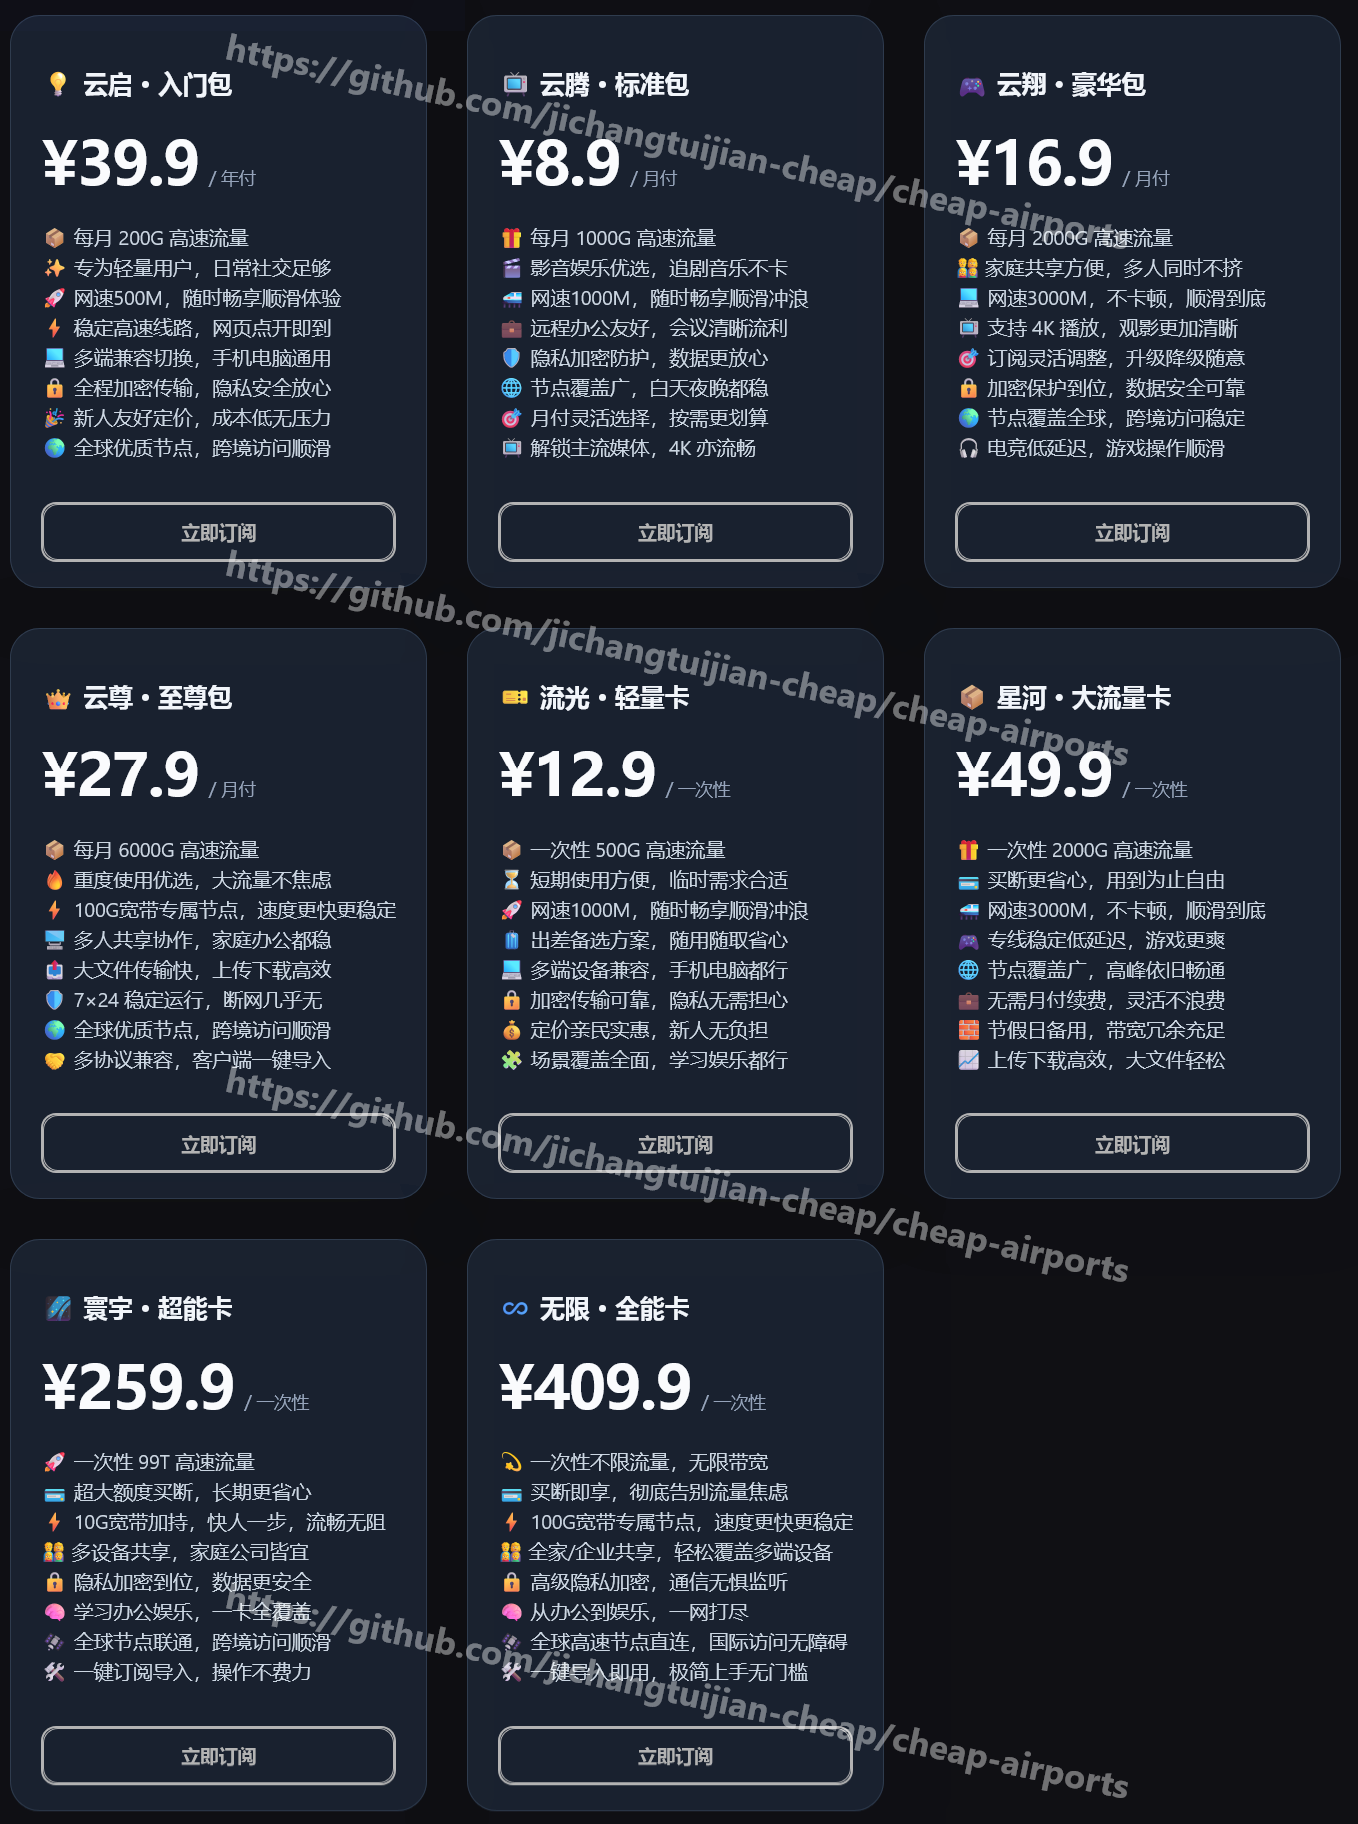
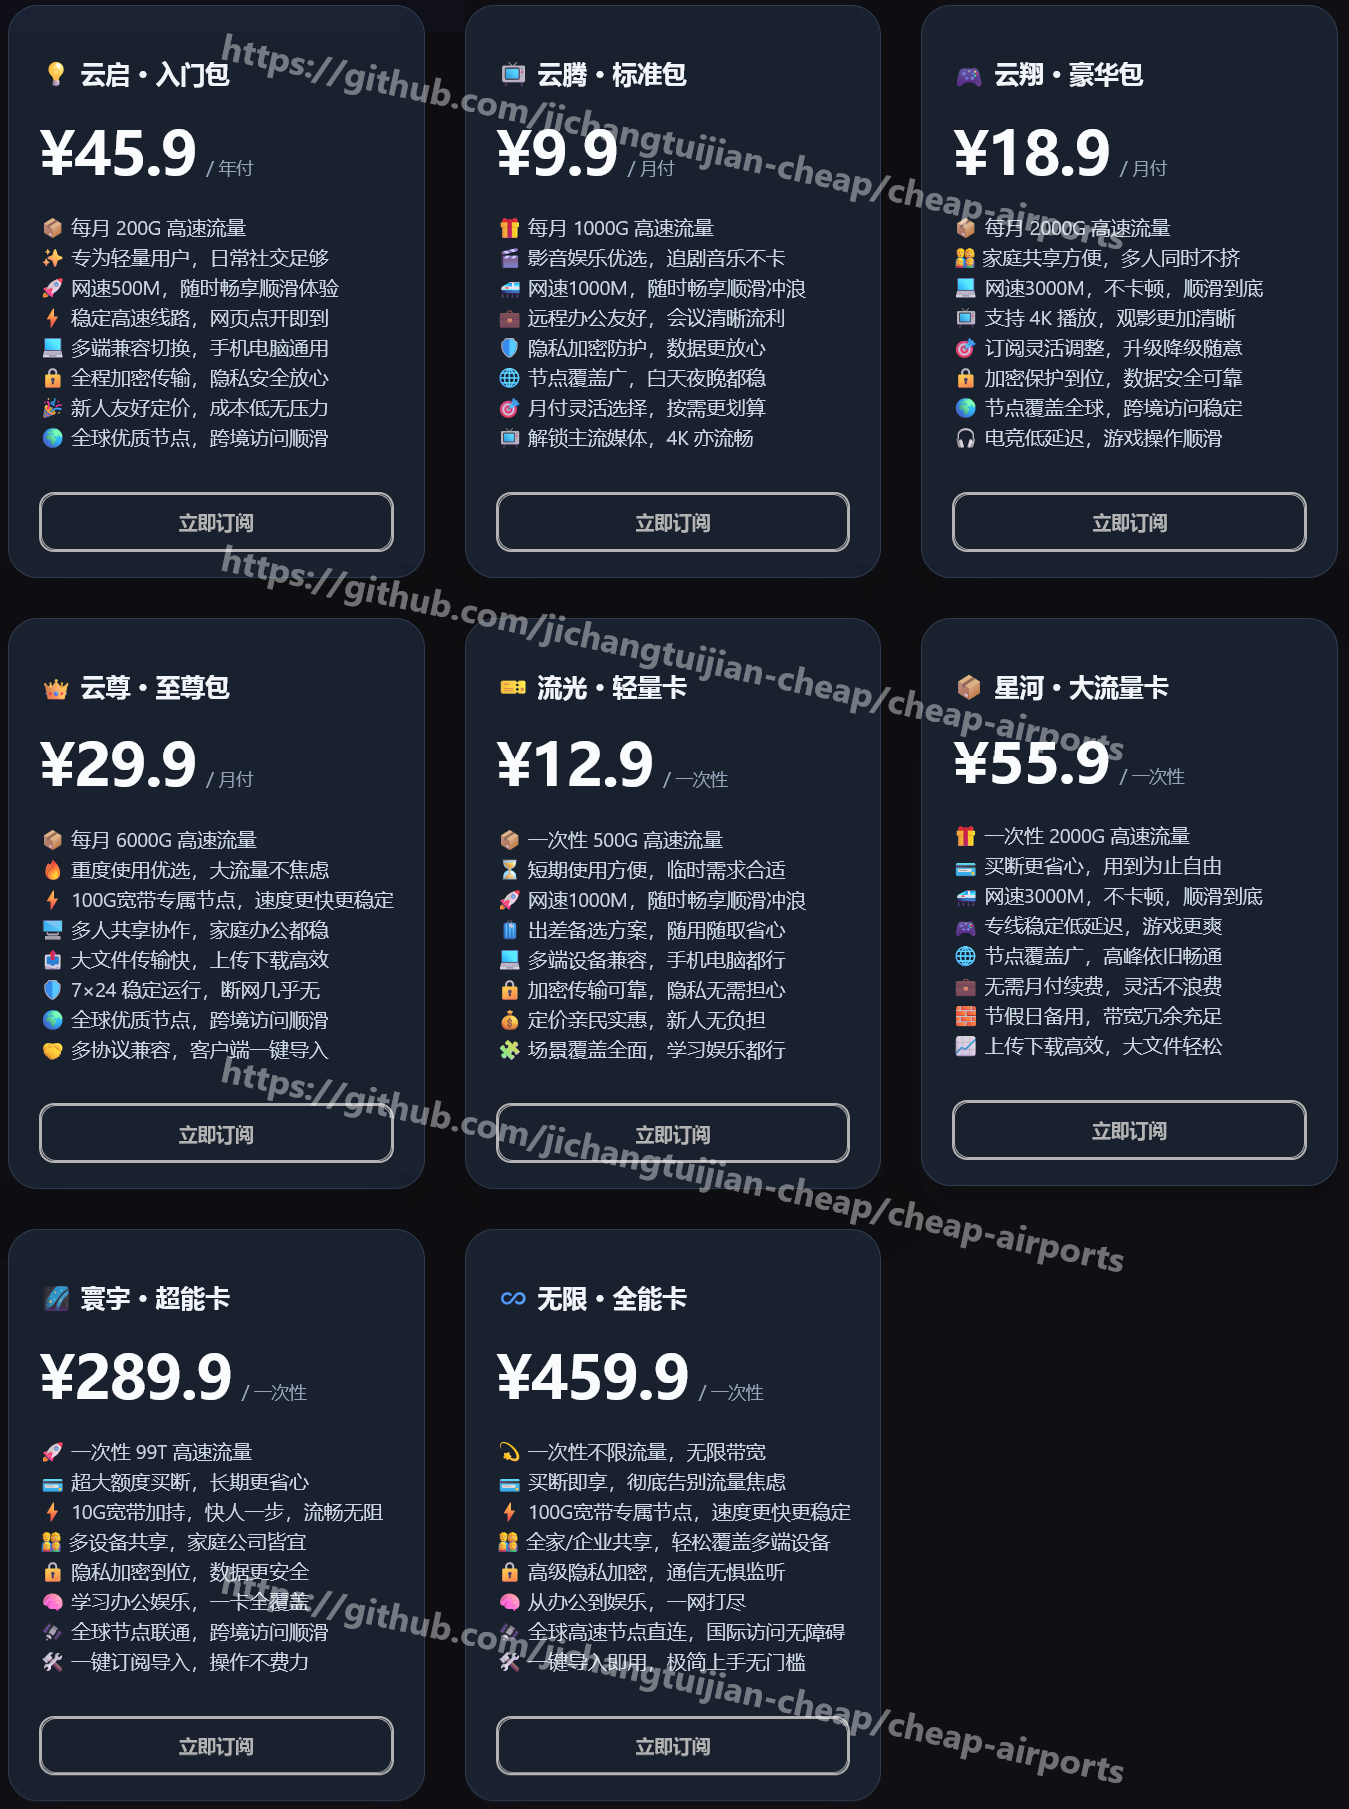
update

diff --git a/README.md b/README.md
@@ -10,7 +10,7 @@
 
 | 序号 | 机场名（点击跳转详情） | 官网 | 最低价套餐 |
 | -------- | -------- | -------- | -------- |
-| 1  | [悦通](#悦通) | [官网](https://sink.cheapairports.dpdns.org/648txr) | 40元/年,200G/月（平均3.3元/月）送Emby |
+| 1  | [悦通](#悦通) | [官网](https://sink.cheapairports.dpdns.org/648txr) | 45.9元/年,200G/月（平均3.8元/月）送Emby |
 | 2  | [雪山机场](#雪山机场) | [官网](https://sink.cheapairports.dpdns.org/m82fux) | 30元/年,200G/月（平均2.5元/月）送Emby |
 | 3  | [一分机场](#一分机场) | [官网](https://sink.cheapairports.dpdns.org/6ba6cf) | 2元/月 100G/月 |
 | 4  | [流量光机场](#流量光机场) | [官网](https://sink.cheapairports.dpdns.org/rsjxqm) | 40元/年,60G/月（平均3.3元/月） |
@@ -78,9 +78,12 @@ Email: pianyijichang@proton.me
 ### 悦通
 开业时间：2025-09-02
 
-最低价套餐：39.9元/年,200G/月（平均3.3元/月）送Emby；月付8.9元/月 1T/月
+最低价套餐：45.9元/年,200G/月（平均3.8元/月）送Emby；月付8.9元/月 1T/月
 
 特点：
+* 顶级专线资源的“降维打击”：不同于市面上的普通公网中转，悦通在核心节点（港/台/日/新/美）部署了 Premium 和 专属 高端线路。
+* 硬核配置：接入 HKT (香港电讯)、Hinet (台湾中华电信)、AWS 等企业级资源。
+* 体验：超低延迟，极强抗干扰，晚高峰稳如老狗，直接对标一线大厂体验！
 * 送Emby
 * 解锁 Netflix、YouTube、TikTok、OpenAI 等主流服务
 * 支持的地区包括：香港、台湾、🇯🇵 日本、🇰🇷 韩国、🇸🇬 新加坡、🇺🇸 美国、🇨🇦 加拿大、🇻🇳 越南、🇲🇾 马来西亚、🇹🇭 泰国、🇮🇳 印度、🇦🇪 阿联酋、🇪🇸 西班牙、🇸🇪 瑞典、🇳🇱 荷兰、🇩🇪 德国、🇬🇧 英国、🇷🇺 俄罗斯、🇹🇷 土耳其、🇳🇬 尼日利亚、🇧🇷 巴西、🇦🇺 澳大利亚、澳门、🇲🇳 蒙古、🇰🇭 柬埔寨、🇲🇲 缅甸、🇱🇦 老挝、🇵🇭 菲律宾、🇮🇩 印度尼西亚、🇵🇰 巴基斯坦、🇹🇱 东帝汶、🇦🇫 阿富汗、🇺🇦 乌克兰、🇻🇦 梵蒂冈、🇧🇲 百慕大、🇬🇱 格陵兰、🇦🇷 阿根廷、🇨🇺 古巴、🇪🇬 埃及、🇸🇴 索马里、🇫🇯 斐济、🇸🇧 所罗门群岛、🇬🇺 关岛、🇦🇶 南极洲…… 节点数量多、分布广，随时畅享全球高速网络！
@@ -104,7 +107,7 @@ Email: pianyijichang@proton.me
 最低价套餐：30元/年 200G/月（平均2.5元/月）送Emby
 
 特点：
-* 订阅任意套餐即可免费使用 Emby
+* 订阅任意套餐即可免费使用 Emby，支持在线观看电影、剧集、动漫等内容，手机 / 电脑 / 平板多端播放。
 * 电信/联通/移动 多线接入
 * 不限连接数量
 * 包含原生，家宽节点
